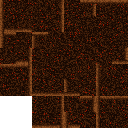
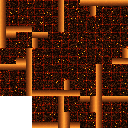
feat: Stage_01T com mais detalhes — grid de veios de lava e bordas nítidas
- Paleta com maior contraste (interior quase preto, bordas laranja 248,155,52)
- Grid de veios de lava a cada 8-9px formando blocos de rocha visíveis
- Flecks brilhantes aleatórios no interior (LV_BR)
- Glow de lava nos pixels de canto interno dos tiles-L
- Surface depth 6px (era 4px) — bordas muito mais proeminentes

diff --git a/gen_stage01_tileset.py b/gen_stage01_tileset.py
@@ -1,5 +1,6 @@
 """Generates Stage_01T.png — 128x128 (4x4 grid, 32x32 tiles) fire/volcano theme.
-Tile layout mirrors Stage_00T exactly so both share the same positional descriptions."""
+Tile layout mirrors Stage_00T. High-contrast palette with lava crack grid and
+prominent surface highlights."""
 from PIL import Image
 import random, os
 
@@ -9,15 +10,23 @@ TILE = 32
 COLS = ROWS = 4
 W = H = TILE * COLS   # 128x128
 
-# --- Fire/Volcano Palette ---
-BLANK  = (  0,   0,   0,   0)
-RK_VDK = ( 22,   8,   2, 255)   # very dark volcanic rock
-RK_DK  = ( 42,  18,   5, 255)   # dark rock
-RK_MD  = ( 70,  33,  10, 255)   # mid rock
-RK_LT  = (100,  52,  20, 255)   # light rock surface
-RK_HI  = (135,  75,  32, 255)   # brightest highlight
-LV_DK  = (150,  22,   0, 255)   # dark lava vein
-LV_MD  = (220,  72,   0, 255)   # bright lava vein
+# ── Palette ─────────────────────────────────────────────
+BLANK    = (  0,   0,   0,   0)
+INT_BLK  = ( 12,   3,   1, 255)  # near-black interior base
+INT_DK   = ( 28,  10,   3, 255)  # dark rock
+INT_MD   = ( 50,  20,   7, 255)  # medium rock
+INT_LT   = ( 82,  35,  12, 255)  # light rock variation
+LV_SEAM  = (110,  15,   2, 255)  # dark lava seam (crack line)
+LV_DK    = (175,  32,   0, 255)  # lava glow dark
+LV_MD    = (235,  88,   5, 255)  # lava glow mid
+LV_BR    = (255, 162,  24, 255)  # bright lava
+LV_GL    = (255, 225,  65, 255)  # lava core / glow
+SURF_D5  = ( 90,  38,  12, 255)  # surface depth 5 (transition)
+SURF_D4  = (120,  55,  18, 255)  # surface depth 4
+SURF_D3  = (155,  72,  22, 255)  # surface depth 3
+SURF_D2  = (195, 100,  30, 255)  # surface depth 2
+SURF_D1  = (225, 125,  40, 255)  # surface depth 1
+SURF_D0  = (248, 155,  52, 255)  # outermost highlight (brightest)
 
 img = Image.new("RGBA", (W, H), BLANK)
 px  = img.load()
@@ -27,27 +36,49 @@ def sp(col, row, x, y, c):
     if 0 <= gx < W and 0 <= gy < H:
         px[gx, gy] = c
 
-# ── Surface gradient: distance 0 = outermost exposed edge ──
-SD = 4   # surface depth in pixels
-M  = TILE // 2   # half-tile pivot for L-tiles
+# ── Surface depth ──
+SD = 6   # pixels deep for surface gradient
+_SURF = [SURF_D0, SURF_D1, SURF_D2, SURF_D3, SURF_D4, SURF_D5]
 
 def surf(d):
-    r = random.random()
-    if d == 0: return RK_HI if r > 0.25 else RK_LT
-    if d == 1: return RK_LT if r > 0.35 else RK_HI
-    if d == 2: return RK_MD if r > 0.30 else RK_LT
-    return      RK_DK if r > 0.40 else RK_MD
+    """Surface color at distance d from exposed edge, with slight noise."""
+    base = _SURF[min(d, SD - 1)]
+    if random.random() < 0.18:   # slight variation
+        return (min(255, base[0] + 12), min(255, base[1] + 6), base[2], 255)
+    return base
+
+M = TILE // 2  # half-tile pivot for L-tiles
+
+# ── Interior fill with lava crack grid ──────────────────
+CRACK_H = 8   # crack every 8px horizontally
+CRACK_V = 9   # crack every 9px vertically (offset grid)
 
 def fill(col, row):
-    """Dark volcanic rock interior with rare lava veins."""
+    """Volcanic rock with lava crack grid + random glowing flecks."""
     for y in range(TILE):
         for x in range(TILE):
-            r = random.random()
-            if   r < 0.03: c = LV_DK
-            elif r < 0.38: c = RK_VDK
-            elif r < 0.74: c = RK_DK
-            else:          c = RK_MD
+            # Crack lines
+            in_hcrack = (y % CRACK_H == 0)
+            in_vcrack = (x % CRACK_V == (col * 2) % CRACK_V)
+            at_cross  = in_hcrack and in_vcrack
+
+            if at_cross:
+                # Lava pocket at crack intersection
+                c = LV_DK if random.random() > 0.4 else LV_MD
+            elif in_hcrack or in_vcrack:
+                # Crack line — dark lava seam
+                c = LV_SEAM if random.random() > 0.3 else INT_DK
+            else:
+                r = random.random()
+                if   r < 0.012: c = LV_BR     # rare bright fleck
+                elif r < 0.040: c = LV_DK     # lava glow fleck
+                elif r < 0.280: c = INT_BLK
+                elif r < 0.620: c = INT_DK
+                elif r < 0.860: c = INT_MD
+                else:           c = INT_LT
             sp(col, row, x, y, c)
+
+# ── Edge applicators ─────────────────────────────────────
 
 def etop(col, row, x0=0, x1=TILE):
     for y in range(SD):
@@ -69,110 +100,98 @@ def eright(col, row, y0=0, y1=TILE):
         for y in range(y0, y1):
             sp(col, row, TILE - 1 - x, y, surf(x))
 
-def corner_accent(col, row, px_x, px_y):
-    """Extra warm pixel at inner-corner junction."""
-    sp(col, row, px_x, px_y, RK_LT)
+def lava_corner(col, row, cx, cy):
+    """Tiny lava glow at inner-corner junction pixel."""
+    sp(col, row, cx, cy, LV_BR)
+    for dx, dy in [(-1,0),(1,0),(0,-1),(0,1)]:
+        nx, ny = cx + dx, cy + dy
+        if 0 <= nx < TILE and 0 <= ny < TILE:
+            sp(col, row, nx, ny, LV_DK)
 
 # ══════════════════════════════════════════════════════════
 # ROW 0
 # ══════════════════════════════════════════════════════════
 
-# (0,0)  Canto inferior esquerdo — exposed: BOTTOM + LEFT
-fill(0, 0)
-ebot(0, 0)
-eleft(0, 0)
+# (0,0)  Canto inferior esquerdo — BOTTOM + LEFT
+fill(0, 0); ebot(0, 0); eleft(0, 0)
 
-# (1,0)  Lateral direita da coluna lisa — exposed: RIGHT
-fill(1, 0)
-eright(1, 0)
+# (1,0)  Lateral direita da coluna lisa — RIGHT
+fill(1, 0); eright(1, 0)
 
 # (2,0)  L da coluna com chão do lado direito
-# inner corner: right face of left column (y 0→M) + top face of right floor (x M→TILE)
+# inner corner: right face upper half + top face right half
 fill(2, 0)
 eright(2, 0, y0=0, y1=M)
 etop(2, 0, x0=M, x1=TILE)
-corner_accent(2, 0, TILE - 1, M)   # junction pixel
+lava_corner(2, 0, TILE - 1, M)
 
-# (3,0)  Plataforma reta — exposed: TOP
-fill(3, 0)
-etop(3, 0)
+# (3,0)  Plataforma reta — TOP
+fill(3, 0); etop(3, 0)
 
 # ══════════════════════════════════════════════════════════
 # ROW 1
 # ══════════════════════════════════════════════════════════
 
 # (0,1)  Canto superior esquerdo com canto inferior direito
-# upper-left quadrant: TOP + LEFT; lower-right quadrant: BOTTOM + RIGHT
+# upper-left: TOP+LEFT  /  lower-right: BOTTOM+RIGHT
 fill(0, 1)
-etop(0, 1, x0=0, x1=M)
-eleft(0, 1, y0=0, y1=M)
-ebot(0, 1, x0=M, x1=TILE)
-eright(0, 1, y0=M, y1=TILE)
+etop(0, 1, x0=0, x1=M);  eleft(0, 1, y0=0, y1=M)
+ebot(0, 1, x0=M, x1=TILE); eright(0, 1, y0=M, y1=TILE)
 
 # (1,1)  L da coluna com chão do lado esquerdo
-# inner corner: left face of right column (y 0→M) + top face of left floor (x 0→M)
+# inner corner: left face upper half + top face left half
 fill(1, 1)
 eleft(1, 1, y0=0, y1=M)
 etop(1, 1, x0=0, x1=M)
-corner_accent(1, 1, 0, M)
+lava_corner(1, 1, 0, M)
 
-# (2,1)  Centro do tile — miolo de preenchimento todo preenchido (no exposed faces)
+# (2,1)  Centro do tile — miolo de preenchimento (no exposed faces)
 fill(2, 1)
 
 # (3,1)  L da coluna com teto do lado direito
-# inner corner: right face of left column (y M→TILE) + bottom face of right ceiling (x M→TILE)
+# inner corner: right face lower half + bottom face right half
 fill(3, 1)
 eright(3, 1, y0=M, y1=TILE)
 ebot(3, 1, x0=M, x1=TILE)
-corner_accent(3, 1, TILE - 1, M - 1)
+lava_corner(3, 1, TILE - 1, M - 1)
 
 # ══════════════════════════════════════════════════════════
 # ROW 2
 # ══════════════════════════════════════════════════════════
 
-# (0,2)  Canto superior direito — exposed: TOP + RIGHT
-fill(0, 2)
-etop(0, 2)
-eright(0, 2)
+# (0,2)  Canto superior direito — TOP + RIGHT
+fill(0, 2); etop(0, 2); eright(0, 2)
 
-# (1,2)  Teto reto — exposed: BOTTOM
-fill(1, 2)
-ebot(1, 2)
+# (1,2)  Teto reto — BOTTOM
+fill(1, 2); ebot(1, 2)
 
 # (2,2)  L da coluna com teto do lado esquerdo
-# inner corner: left face of right column (y M→TILE) + bottom face of left ceiling (x 0→M)
+# inner corner: left face lower half + bottom face left half
 fill(2, 2)
 eleft(2, 2, y0=M, y1=TILE)
 ebot(2, 2, x0=0, x1=M)
-corner_accent(2, 2, 0, M - 1)
+lava_corner(2, 2, 0, M - 1)
 
-# (3,2)  Lateral esquerda da coluna lisa — exposed: LEFT
-fill(3, 2)
-eleft(3, 2)
+# (3,2)  Lateral esquerda da coluna lisa — LEFT
+fill(3, 2); eleft(3, 2)
 
 # ══════════════════════════════════════════════════════════
 # ROW 3
 # ══════════════════════════════════════════════════════════
 
-# (0,3)  Transparente — tile vazio (already BLANK, nothing to draw)
+# (0,3)  Transparente — tile vazio (leave BLANK)
 
-# (1,3)  Canto inferior direito — exposed: BOTTOM + RIGHT
-fill(1, 3)
-ebot(1, 3)
-eright(1, 3)
+# (1,3)  Canto inferior direito — BOTTOM + RIGHT
+fill(1, 3); ebot(1, 3); eright(1, 3)
 
 # (2,3)  Canto inferior esquerdo com canto superior direito
-# lower-left quadrant: BOTTOM + LEFT; upper-right quadrant: TOP + RIGHT
+# lower-left: BOTTOM+LEFT  /  upper-right: TOP+RIGHT
 fill(2, 3)
-ebot(2, 3, x0=0, x1=M)
-eleft(2, 3, y0=M, y1=TILE)
-etop(2, 3, x0=M, x1=TILE)
-eright(2, 3, y0=0, y1=M)
+ebot(2, 3, x0=0, x1=M);  eleft(2, 3, y0=M, y1=TILE)
+etop(2, 3, x0=M, x1=TILE); eright(2, 3, y0=0, y1=M)
 
-# (3,3)  Canto superior esquerdo — exposed: TOP + LEFT
-fill(3, 3)
-etop(3, 3)
-eleft(3, 3)
+# (3,3)  Canto superior esquerdo — TOP + LEFT
+fill(3, 3); etop(3, 3); eleft(3, 3)
 
 # ══════════════════════════════════════════════════════════
 # Save
